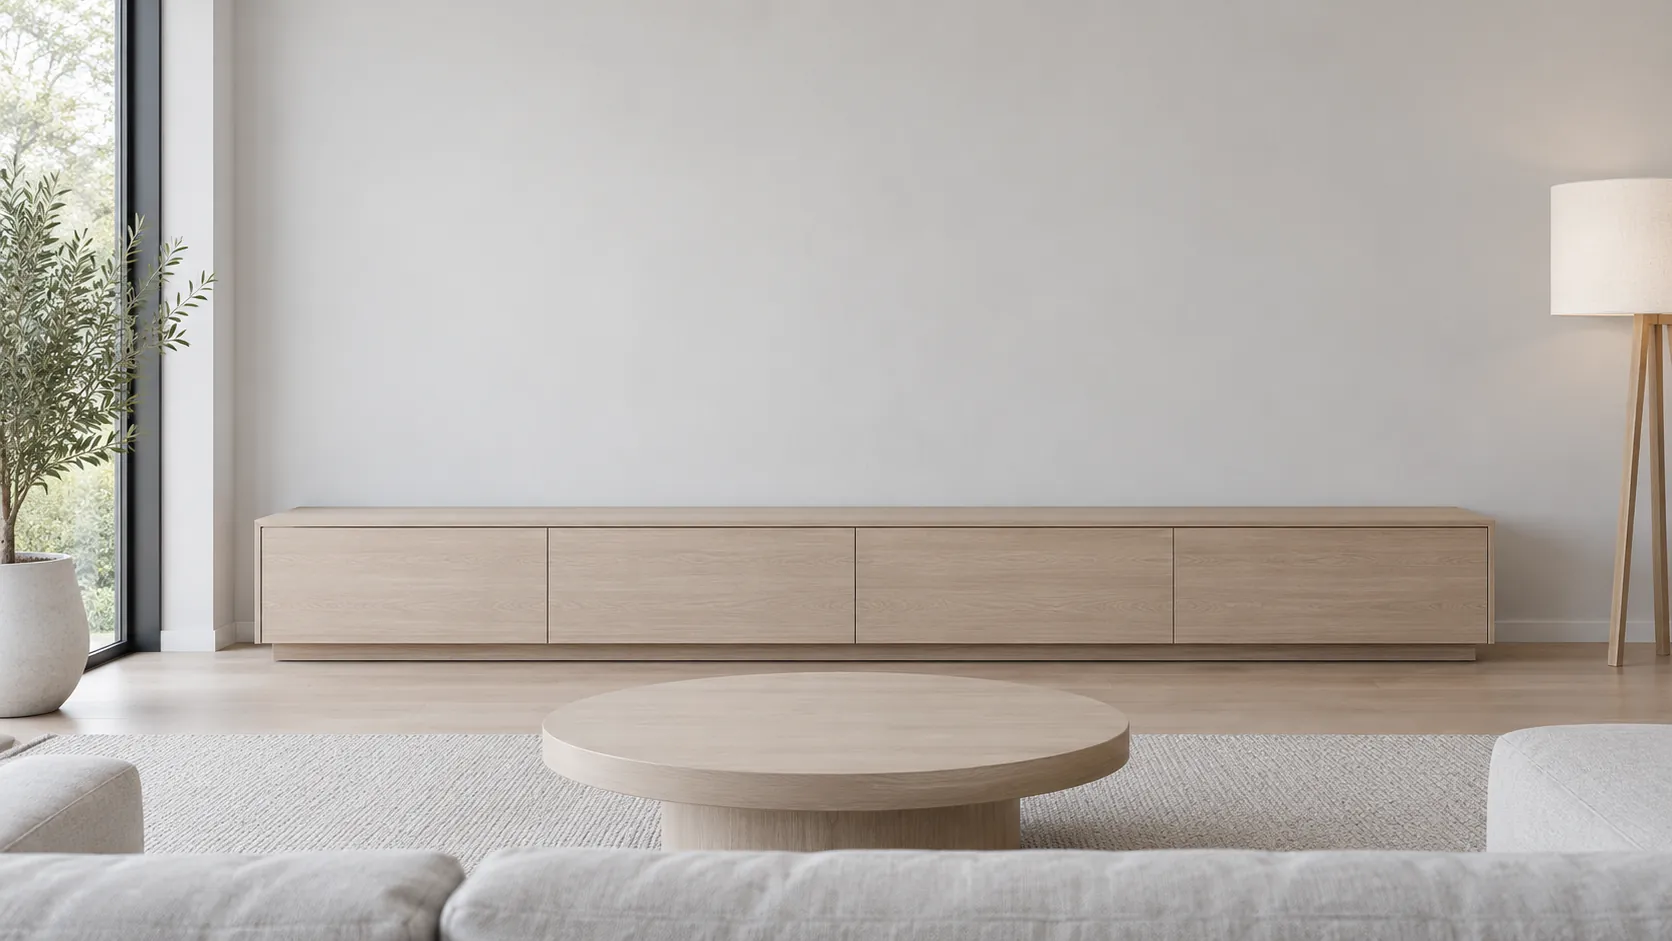
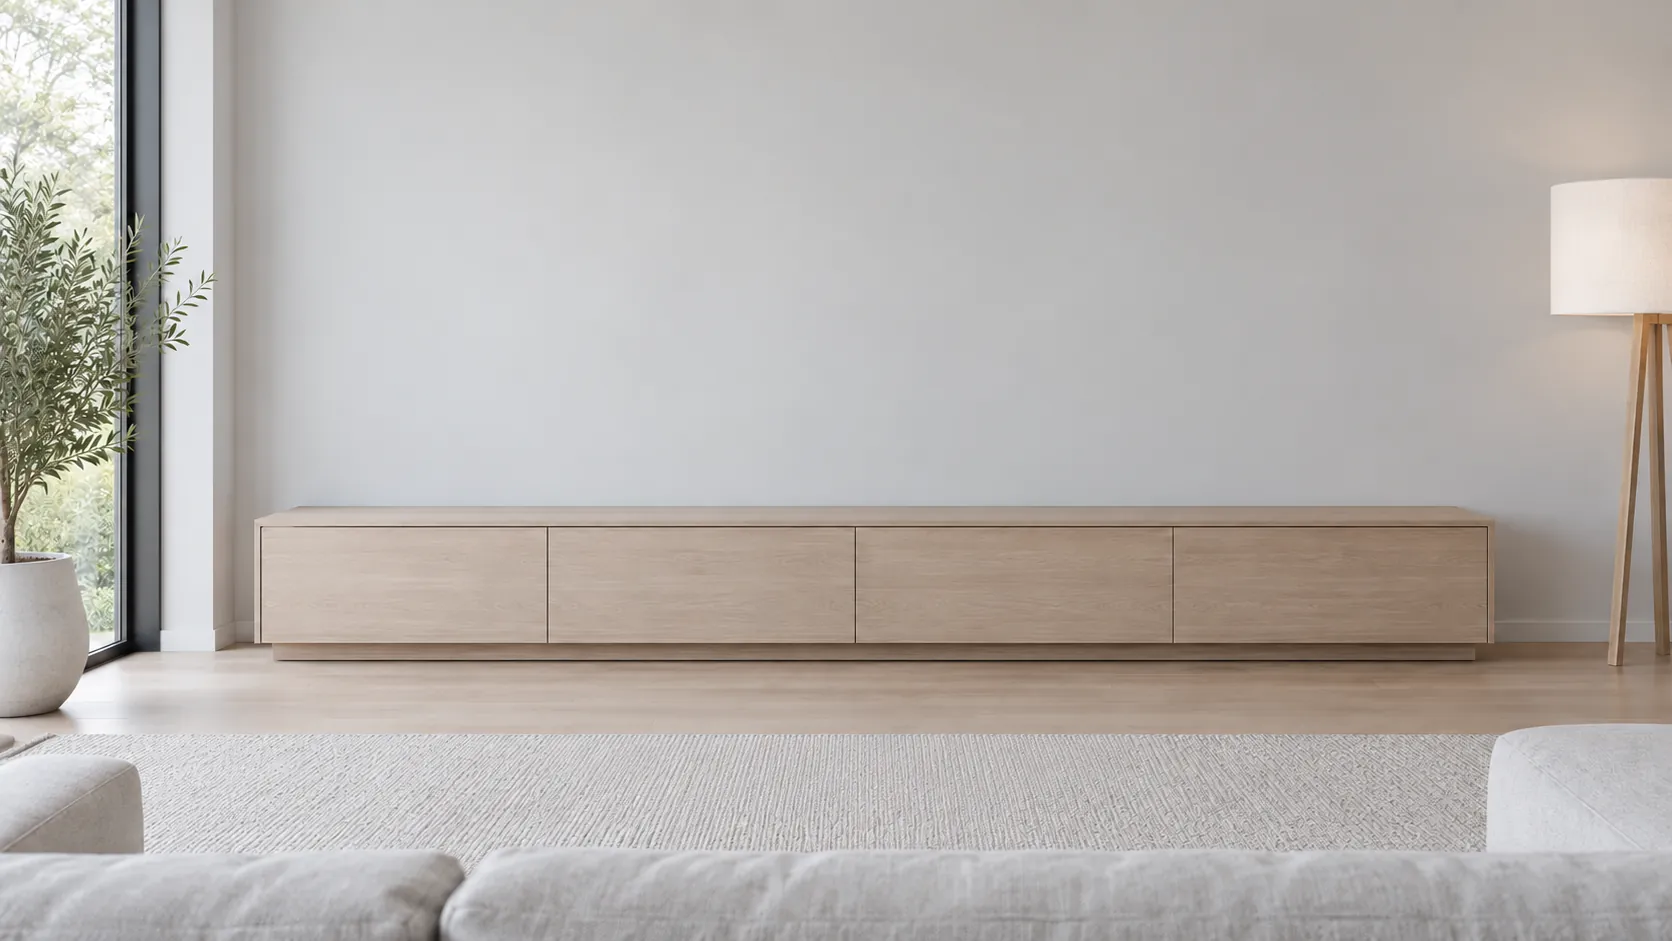
Replace TVs with realistic legless assets, remove coffee tables, and soften retro signal sweeps

diff --git a/src/main.ts b/src/main.ts
@@ -5,6 +5,7 @@ import {photoLayout} from '../public/photo-layout.mjs';
 import {roomThemes,roomThemeIds,themeFor,roomPhoto} from '../public/room-themes.mjs';
 import {viewFor,keyFor,placementFor,settingsFor,prepareSave,updatePlacement,figureRect,slotColors} from './activity-model.mjs';
 import {TvStatic,SignalSweeps} from './tv-static';
+import {tvModels} from '../public/tv/models.mjs';
 import {ActivityViewport} from './activity-viewport';
 import './activity.css';
 
@@ -24,7 +25,7 @@ let signalTimer:ReturnType<typeof setTimeout>|undefined,lastFrame=0,everLive=fal
 let pendingExit=false,liveTv='crt',signalVisible=true,switchingTv=false;
 const staticNoise=new TvStatic($<HTMLCanvasElement>('staticNoise'));
 const signalSweeps=new SignalSweeps($<HTMLCanvasElement>('signalSweep'));
-function syncStatic(){const active=liveTv==='crt'&&!document.hidden&&!draft;staticNoise.setActive(active&&signalVisible);signalSweeps.setActive(active&&!signalVisible&&controls.retro==='scanlines')}
+function syncStatic(){const active=liveTv==='crt'&&!document.hidden&&!draft;staticNoise.setActive(active&&signalVisible);signalSweeps.setActive(active&&!signalVisible&&(controls.retro==='scanlines'||controls.retro==='immersive'))}
 let volume=100;try{volume=Number(localStorage.getItem('shis-volume')??100)}catch{}
 volume=Math.max(0,Math.min(100,Number.isFinite(volume)?volume:100));
 const decoded=new Map<string,Promise<HTMLImageElement>>();let renderEpoch=0,previewEpoch=0;
@@ -69,14 +70,14 @@ async function renderLive(){
  // Solo pantalla reuses the saved home composition for its optional figures.
  const sourceKey=controls.scene==='arcade'?keyFor(view,controls.aspect):key;
  const {p,type,result,screen}=layout(room,sourceKey,saved,view,controls.scene==='arcade');
- const src=photoSource(type,view,themeFor(p));try{await loadPhoto(src)}catch{notify('No se pudo cargar el fondo');return}if(epoch!==renderEpoch)return;
+ const src=photoSource(type,view,themeFor(p));try{await Promise.all([loadPhoto(src),loadPhoto(`/tv/real-${type}.webp`)])}catch{notify('No se pudo cargar el fondo');return}if(epoch!==renderEpoch)return;
  const bg=$<HTMLImageElement>('backdrop');if(bg.getAttribute('src')!==src)bg.src=src;
- setRect($('photo'),result.photo);setRect($('screen'),result.screen);const tv=$<HTMLImageElement>('tvFrame');tv.src=`/tv/shared-${type}.svg`;setRect(tv,result.frame);tv.hidden=controls.scene==='arcade'||view==='window';
+ setRect($('photo'),result.photo);setRect($('screen'),result.screen);const tv=$<HTMLImageElement>('tvFrame');tv.src=`/tv/real-${type}.webp`;setRect(tv,result.frame);tv.hidden=controls.scene==='arcade'||view==='window';
  $('stage').classList.toggle('solo',controls.scene==='arcade'||view==='window');
  $('stage').classList.toggle('compact',view==='window');$('controls').hidden=view==='window';if(view==='window'){ $('optionsPanel').hidden=true;$('volumePanel').hidden=true; }
- $('roomText').textContent=controls.aspect;
+ $('roomText').textContent='SHIS PLUS';$('screen').style.setProperty('--glass-width',result.screen.width+'px');
  liveTv=type;$('screen').className=[type==='crt'?'crt':'',signalVisible?'no-signal':'',controls.retro==='immersive'?'intense':controls.retro,controls.smoothing?'smooth':''].join(' ');
- $('screen').style.borderRadius=type==='crt'&&p.screen?.rounded!==false&&view!=='window'?'5% / 8%':'0';
+ $('screen').style.borderRadius=type==='crt'&&p.screen?.rounded!==false&&view!=='window'?tvModels[type].rounding:'0';
  $<HTMLVideoElement>('video').style.objectFit=p.video?.fit??'contain';
  renderFigures(room,$('figures'),saved,key,screen,p,false);$('loading').hidden=true;syncStatic();document.querySelectorAll<HTMLButtonElement>('[data-live-theme]').forEach(b=>b.setAttribute('aria-pressed',String(b.dataset.liveTheme===themeFor(p))));document.querySelectorAll<HTMLButtonElement>('[data-live-tv]').forEach(b=>b.setAttribute('aria-pressed',String(b.dataset.liveTv===type)));
 }
@@ -103,9 +104,9 @@ function editorSettings(){return (draft!.presentations??={})[activeKey()]??=stru
 function resetFreshSettings(m:Manifest){m.presentations??={};for(const v of ['landscape','portrait','window'])for(const a of ['16:9','4:3']){const k=keyFor(v,a);m.presentations[k]=structuredClone(settingsFor(m,k));}}
 async function renderPreview(){if(!draft)return;const epoch=++previewEpoch,room=$('previewRoom');const area=$('preview'),ratio=editView==='portrait'?9/16:editView==='window'?4/3:16/9;
  const w=Math.min(area.clientWidth-16,(area.clientHeight-16)*ratio);room.style.width=`${Math.max(1,w)}px`;room.style.height=`${Math.max(1,w/ratio)}px`;room.style.aspectRatio=String(ratio);
- const {p,type,result,screen}=layout(room,activeKey(),draft,editView);const src=photoSource(type,editView,themeFor(p));try{await loadPhoto(src)}catch{notify('No se pudo cargar el fondo');return}if(epoch!==previewEpoch||!draft)return;
- const bg=room.querySelector<HTMLImageElement>('.backdrop')!;if(bg.getAttribute('src')!==src)bg.src=src;bg.hidden=editView==='window';setRect(room.querySelector<HTMLElement>('.photo')!,result.photo);setRect(room.querySelector<HTMLElement>('.screen')!,result.screen);const tv=room.querySelector<HTMLImageElement>('.tv-frame')!;tv.src=`/tv/shared-${type}.svg`;setRect(tv,result.frame);tv.hidden=editView==='window';
- room.querySelector<HTMLElement>('.screen')!.style.borderRadius=type==='crt'&&p.screen?.rounded!==false?'5% / 8%':'0';
+ const {p,type,result,screen}=layout(room,activeKey(),draft,editView);const src=photoSource(type,editView,themeFor(p));try{await Promise.all([loadPhoto(src),loadPhoto(`/tv/real-${type}.webp`)])}catch{notify('No se pudo cargar el fondo');return}if(epoch!==previewEpoch||!draft)return;
+ const bg=room.querySelector<HTMLImageElement>('.backdrop')!;if(bg.getAttribute('src')!==src)bg.src=src;bg.hidden=editView==='window';setRect(room.querySelector<HTMLElement>('.photo')!,result.photo);setRect(room.querySelector<HTMLElement>('.screen')!,result.screen);const tv=room.querySelector<HTMLImageElement>('.tv-frame')!;tv.src=`/tv/real-${type}.webp`;setRect(tv,result.frame);tv.hidden=editView==='window';
+ room.querySelector<HTMLElement>('.screen')!.style.borderRadius=type==='crt'&&p.screen?.rounded!==false?tvModels[type].rounding:'0';
  renderFigures(room,room.querySelector<HTMLElement>('.figures')!,draft,activeKey(),screen,p,true);
 }
 function syncEditor(refresh=true){if(!draft)return;

diff --git a/src/tv-static.ts b/src/tv-static.ts
@@ -1,10 +1,11 @@
 // Noise is generated only inside the inactive CRT glass, never on the room.
 // The original 320×180 grain at 12 fps keeps the work bounded on Android.
-// Original band profiles: a broad slow pass and a narrower, faster pass.
+// Two softly feathered passes: the narrower pass is only slightly faster.
 const bands=(now:number,height:number)=>[
- {center:(now/31)%(height+24)-12,halfWidth:12},
- {center:(now/17)%(height+10)-5,halfWidth:5},
+ {center:(now/38)%(height+32)-16,halfWidth:16},
+ {center:(now/30)%(height+16)-8,halfWidth:8},
 ];
+const feather=(distance:number,width:number)=>{const t=Math.max(0,1-Math.abs(distance)/width);return t*t*(3-2*t)};
 export class TvStatic {
  private timer:ReturnType<typeof setTimeout>|undefined;
  private active=false;
@@ -26,7 +27,7 @@ export class TvStatic {
   if(!this.active)return;
   if(!document.hidden&&this.context&&this.frame){
    const pixels=this.frame.data,passes=bands(performance.now(),this.canvas.height);
-   for(let i=0;i<pixels.length;i+=4){this.seed^=this.seed<<13;this.seed^=this.seed>>>17;this.seed^=this.seed<<5;const y=Math.floor(i/4/this.canvas.width);let shift=0;for(const {center,halfWidth} of passes){const distance=y-center,strength=Math.max(0,1-Math.abs(distance)/halfWidth);shift+=(distance<0?24:-20)*strength}const v=Math.max(0,Math.min(255,48+(this.seed&255)*.8+shift));pixels[i]=pixels[i+1]=pixels[i+2]=v;pixels[i+3]=255;}
+   for(let i=0;i<pixels.length;i+=4){this.seed^=this.seed<<13;this.seed^=this.seed>>>17;this.seed^=this.seed<<5;const y=Math.floor(i/4/this.canvas.width);let shift=0;for(const {center,halfWidth} of passes){const distance=y-center;shift+=10*feather(distance+halfWidth*.4,halfWidth)-9*feather(distance-halfWidth*.4,halfWidth)}const v=Math.max(0,Math.min(255,40+(this.seed&255)*.8+shift));pixels[i]=pixels[i+1]=pixels[i+2]=v;pixels[i+3]=255;}
    this.context.putImageData(this.frame,0,0);
   }
   this.timer=setTimeout(this.draw,83);
@@ -34,7 +35,7 @@ export class TvStatic {
  stop(){this.setActive(false)}
 }
 
-// Transparent grain sweeps retain the original sizes and speeds on live video.
+// Low-opacity, feathered grain sweeps share the idle signal's slow cadence.
 export class SignalSweeps {
  private timer:ReturnType<typeof setTimeout>|undefined;
  private active=false;
@@ -48,9 +49,9 @@ export class SignalSweeps {
   if(!document.hidden&&this.context&&this.frame){
    const data=this.frame.data,{width,height}=this.canvas;data.fill(0);
    for(const {center,halfWidth} of bands(performance.now(),height)){
-    for(let y=Math.max(0,Math.floor(center-halfWidth));y<Math.min(height,Math.ceil(center+halfWidth));y++){
-     const distance=y-center,strength=1-Math.abs(distance)/halfWidth;if(strength<=0)continue;const light=distance<0;
-     for(let x=0;x<width;x++){this.seed^=this.seed<<13;this.seed^=this.seed>>>17;this.seed^=this.seed<<5;const i=(y*width+x)*4,grain=(this.seed&255)/255,alpha=Math.round((light?35:55)*strength*(.55+grain*.7));if(alpha<=data[i+3])continue;data[i]=light?245:0;data[i+1]=light?252:0;data[i+2]=light?255:0;data[i+3]=alpha}
+    for(let y=Math.max(0,Math.floor(center-halfWidth*1.4));y<Math.min(height,Math.ceil(center+halfWidth*1.4));y++){
+     const distance=y-center,light=distance<0,strength=feather(distance+(light?1:-1)*halfWidth*.4,halfWidth);if(strength<=0)continue;
+     for(let x=0;x<width;x++){this.seed^=this.seed<<13;this.seed^=this.seed>>>17;this.seed^=this.seed<<5;const i=(y*width+x)*4,grain=(this.seed&255)/255,alpha=Math.round((light?14:19)*strength*(.8+grain*.3));if(alpha<=data[i+3])continue;data[i]=light?235:0;data[i+1]=light?235:0;data[i+2]=light?235:0;data[i+3]=alpha}
     }
    }
    this.context.putImageData(this.frame,0,0);

diff --git a/src/activity.css b/src/activity.css
@@ -41,3 +41,12 @@ button:focus-visible,input:focus-visible,select:focus-visible{outline-color:#a5a
 
 #backdrop,.backdrop{z-index:-2}
 #room,#previewRoom{isolation:isolate}
+/* Inexpensive CRT glass treatment covers both the noise and its OSD. */
+.crt.no-signal:not(.off) #retro{display:block;z-index:5;background:radial-gradient(ellipse at center,transparent 48%,#0002 78%,#0005 100%),repeating-linear-gradient(0deg,#0002 0 1px,transparent 1px 3px)}
+.crt.no-signal.intense #retro{background:radial-gradient(ellipse at center,transparent 42%,#0003 78%,#0006 100%),repeating-linear-gradient(0deg,#0003 0 1px,transparent 1px 3px)}
+.crt.no-signal #staticNoise{opacity:.92}
+.osd{color:#d3d6d6;text-shadow:0 1px 1px #000}.osd-top{font-size:clamp(6px,calc(var(--glass-width,700px) * .014),12px)}.osd-bottom{font-size:clamp(5px,calc(var(--glass-width,700px) * .011),9px)}
+.no-signal-copy{color:#d3d6d6;text-shadow:0 1px 1px #000}.no-signal-copy strong{font-size:clamp(12px,calc(var(--glass-width,700px) * .031),24px);font-weight:400;letter-spacing:.22em}.no-signal-copy span{font-size:clamp(7px,calc(var(--glass-width,700px) * .014),12px);opacity:.8}
+.tv-frame[src*="real-crt"]{clip-path:inset(1.464% 1.113% 1.464% 1.113% round 1.8%)}
+.tv-frame[src*="real-flat"]{clip-path:inset(4.12% 1.36% 4.53% 1.48% round .4%)}
+#stage.compact .no-signal-copy strong{font-size:8px}#stage.compact .no-signal-copy span{font-size:5px}#stage.compact .osd-top{font-size:5px}

diff --git a/public/tv/README.md b/public/tv/README.md
@@ -1,0 +1,43 @@
+# Photorealistic TV and table removal assets
+
+Generated and edited with the built-in image tool. Photos: `public/rooms/clean/*.webp`. TVs: `public/tv/real-crt.webp`, `public/tv/real-flat.webp`. One asset per TV model is shared by every room and orientation.
+
+## midnight-wide
+
+Use case: precise-object-edit. Edit this living-room background: remove the entire coffee table in the foreground, including every part of its base, pedestal, legs, tabletop, shadows and reflections. Fill the removed area with a continuous believable floor and rug matching the rest of this exact room. Keep the back TV cabinet EXACTLY as it is, its position and scale, the bare wall, all windows and lamps, lighting, camera, framing, sofa edge and room dimensions unchanged. Do not add anything. The center foreground must be unobstructed empty floor/rug; NO coffee table, no side table, no stool, no TV, no electronics, no text. Photorealistic clean matte materials.
+
+## midnight-portrait
+
+Use case: precise-object-edit. Edit this living-room background: remove the entire coffee table in the foreground, including every part of its base, pedestal, legs, tabletop, shadows and reflections. Fill the removed area with a continuous believable floor and rug matching the rest of this exact room. Keep the back TV cabinet EXACTLY as it is, its position and scale, the bare wall, all windows and lamps, lighting, camera, framing, sofa edge and room dimensions unchanged. Do not add anything. The center foreground must be unobstructed empty floor/rug; NO coffee table, no side table, no stool, no TV, no electronics, no text. Photorealistic clean matte materials.
+
+## retro-wide
+
+Use case: precise-object-edit. Edit this living-room background: remove the entire coffee table in the foreground, including every part of its base, pedestal, legs, tabletop, shadows and reflections. Fill the removed area with a continuous believable floor and rug matching the rest of this exact room. Keep the back TV cabinet EXACTLY as it is, its position and scale, the bare wall, all windows and lamps, lighting, camera, framing, sofa edge and room dimensions unchanged. Do not add anything. The center foreground must be unobstructed empty floor/rug; NO coffee table, no side table, no stool, no TV, no electronics, no text. Photorealistic clean matte materials.
+
+## retro-portrait
+
+Use case: precise-object-edit. Edit this living-room background: remove the entire coffee table in the foreground, including every part of its base, pedestal, legs, tabletop, shadows and reflections. Fill the removed area with a continuous believable floor and rug matching the rest of this exact room. Keep the back TV cabinet EXACTLY as it is, its position and scale, the bare wall, all windows and lamps, lighting, camera, framing, sofa edge and room dimensions unchanged. Do not add anything. The center foreground must be unobstructed empty floor/rug; NO coffee table, no side table, no stool, no TV, no electronics, no text. Photorealistic clean matte materials.
+
+## minimal-wide
+
+Use case: precise-object-edit. Edit this living-room background: remove the entire coffee table in the foreground, including every part of its base, pedestal, legs, tabletop, shadows and reflections. Fill the removed area with a continuous believable floor and rug matching the rest of this exact room. Keep the back TV cabinet EXACTLY as it is, its position and scale, the bare wall, all windows and lamps, lighting, camera, framing, sofa edge and room dimensions unchanged. Do not add anything. The center foreground must be unobstructed empty floor/rug; NO coffee table, no side table, no stool, no TV, no electronics, no text. Photorealistic clean matte materials.
+
+## minimal-portrait
+
+Use case: precise-object-edit. Edit this living-room background: remove the entire coffee table in the foreground, including every part of its base, pedestal, legs, tabletop, shadows and reflections. Fill the removed area with a continuous believable floor and rug matching the rest of this exact room. Keep the back TV cabinet EXACTLY as it is, its position and scale, the bare wall, all windows and lamps, lighting, camera, framing, sofa edge and room dimensions unchanged. Do not add anything. The center foreground must be unobstructed empty floor/rug; NO coffee table, no side table, no stool, no TV, no electronics, no text. Photorealistic clean matte materials.
+
+## rain-wide
+
+Use case: precise-object-edit. Edit this living-room background: remove the entire coffee table in the foreground, including every part of its base, pedestal, legs, tabletop, shadows and reflections. Fill the removed area with a continuous believable floor and rug matching the rest of this exact room. Keep the back TV cabinet EXACTLY as it is, its position and scale, the bare wall, all windows and lamps, lighting, camera, framing, sofa edge and room dimensions unchanged. Do not add anything. The center foreground must be unobstructed empty floor/rug; NO coffee table, no side table, no stool, no TV, no electronics, no text. Photorealistic clean matte materials.
+
+## rain-portrait
+
+Use case: precise-object-edit. Edit this living-room background: remove the entire coffee table in the foreground, including every part of its base, pedestal, legs, tabletop, shadows and reflections. Fill the removed area with a continuous believable floor and rug matching the rest of this exact room. Keep the back TV cabinet EXACTLY as it is, its position and scale, the bare wall, all windows and lamps, lighting, camera, framing, sofa edge and room dimensions unchanged. Do not add anything. The center foreground must be unobstructed empty floor/rug; NO coffee table, no side table, no stool, no TV, no electronics, no text. Photorealistic clean matte materials.
+
+## crt
+
+Use case: product-mockup. Asset: isolated photorealistic late-1990s CRT television for a website overlay. Transparent background outside the television. Straight-on orthographic front view, perfectly symmetric with zero perspective, no visible sides or top surface. Substantial charcoal-grey matte molded plastic body, softly curved glass, thick recessed bevel around the glass and a lower control panel with seven small subtle round buttons. Real photographed grey plastic, subtle realistic shading, NOT an illustration or vector. Outer rectangular housing aspect ratio 1000:760. Glass opening approx left 8.8%, top 9.7%, width 82.4%, height 75.3% of the housing. Television centered and fills almost entire image, fully visible. Glass uniform black; signal and text will be added in code. NO legs, feet, stand, pedestal, support, table, floor, cast ground shadow, cables, furniture, figurines, stickers, logos, text, dust, white speckles or colorful lighting. Bottom edge of the housing is flat, no protrusions below. Neutral realistic soft studio illumination; plastic stays grey.
+
+## flat
+
+Use case: product-mockup. Asset: isolated photorealistic modern flat-screen television for a website overlay. Transparent background outside the television. Straight-on orthographic front view, perfectly symmetric with zero perspective, no visible sides or top surface. Thin grey matte realistic metal/plastic bezel, rectangular 16:9 dark glass. Outer housing aspect ratio 1000:600, glass left 1.2%, top 2%, width 97.6%, height 93.3%. Television centered and fills almost entire image, fully visible. Glass uniform black; signal and text will be added in code. NO legs, feet, stand, pedestal, support, table, floor, cast ground shadow, cables, furniture, figurines, stickers, logos, text, dust, white speckles or colorful lighting. Bottom edge of the housing is flat, no protrusions below. Neutral realistic soft studio illumination; plastic stays grey.
